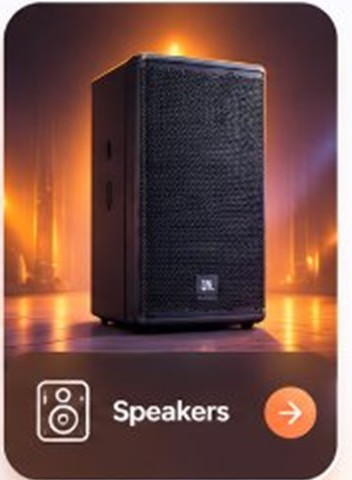
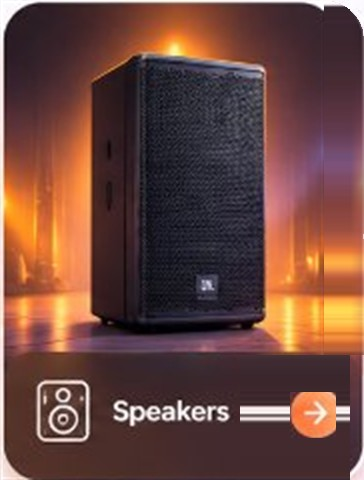
fix: complete right edge of Speakers card and add horizontal scroll padding in BrowseByCategory

diff --git a/src/components/site/BrowseByCategory.tsx b/src/components/site/BrowseByCategory.tsx
@@ -69,10 +69,10 @@ export function BrowseByCategory() {
       <div className="pointer-events-none absolute -bottom-10 -right-10 h-80 w-80 rounded-full bg-gradient-to-tl from-orange-500/10 via-amber-400/10 to-transparent blur-3xl" />
 
       <div className="max-w-[1288px] mx-auto px-4 sm:px-6">
-        
+
         {/* Section Header */}
         <div className="relative flex flex-col items-center justify-center text-center mb-10 sm:mb-12">
-          
+
           {/* Eyebrow: —— EXPLORE OUR EQUIPMENT —— with gold horizontal bars */}
           <div className="flex items-center justify-center gap-3 mb-2">
             <div className="h-[1.5px] w-8 sm:w-12 bg-amber-500/80" />
@@ -111,11 +111,11 @@ export function BrowseByCategory() {
           </div>
         </div>
 
-        {/* 5 Cards Row Track: with pt-3 to prevent hover clipping */}
+        {/* 5 Cards Row Track: with pt-3 to prevent hover clipping and px-4 for side padding */}
         <div
           ref={scrollRef}
           onScroll={onScroll}
-          className="flex items-start justify-start lg:justify-between gap-4 sm:gap-5 lg:gap-6 overflow-x-auto pt-3 pb-5 px-1 -mt-3 scroll-smooth snap-x snap-mandatory scrollbar-none"
+          className="flex items-start justify-start lg:justify-between gap-4 sm:gap-5 lg:gap-6 overflow-x-auto pt-3 pb-6 px-4 sm:px-6 -mt-3 scroll-smooth snap-x snap-mandatory scrollbar-none"
           style={{ scrollbarWidth: "none", msOverflowStyle: "none" }}
         >
           {CATEGORIES.map((item) => (
@@ -132,37 +132,35 @@ export function BrowseByCategory() {
               />
             </Link>
           ))}
+          {/* Spacer to guarantee right padding when scrolled to the end on mobile/tablet */}
+          <div className="w-2 sm:w-4 flex-shrink-0 lg:hidden" aria-hidden="true" />
         </div>
 
         {/* Pagination Indicator Dots */}
         <div className="flex items-center justify-center gap-2 mt-8">
           <div
-            className={`transition-all duration-300 ${
-              activeIndex === 0
+            className={`transition-all duration-300 ${activeIndex === 0
                 ? "h-2 w-7 rounded-full bg-orange-500"
                 : "h-2 w-2 rounded-full bg-slate-300"
-            }`}
+              }`}
           />
           <div
-            className={`transition-all duration-300 ${
-              activeIndex === 1
+            className={`transition-all duration-300 ${activeIndex === 1
                 ? "h-2 w-7 rounded-full bg-orange-500"
                 : "h-2 w-2 rounded-full bg-slate-300"
-            }`}
+              }`}
           />
           <div
-            className={`transition-all duration-300 ${
-              activeIndex === 2
+            className={`transition-all duration-300 ${activeIndex === 2
                 ? "h-2 w-7 rounded-full bg-orange-500"
                 : "h-2 w-2 rounded-full bg-slate-300"
-            }`}
+              }`}
           />
           <div
-            className={`transition-all duration-300 ${
-              activeIndex === 3
+            className={`transition-all duration-300 ${activeIndex === 3
                 ? "h-2 w-7 rounded-full bg-orange-500"
                 : "h-2 w-2 rounded-full bg-slate-300"
-            }`}
+              }`}
           />
         </div>
 
